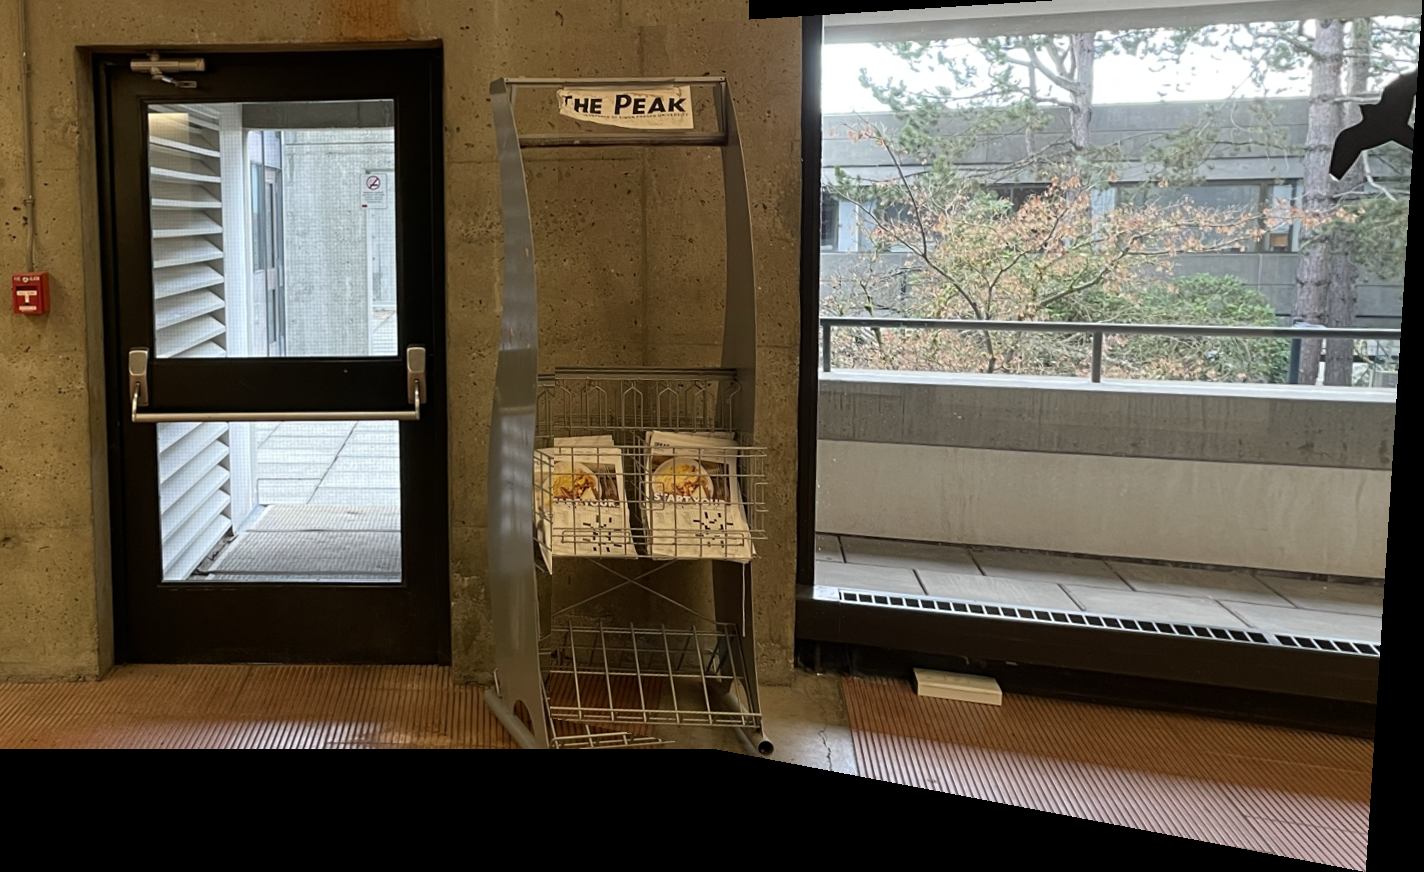
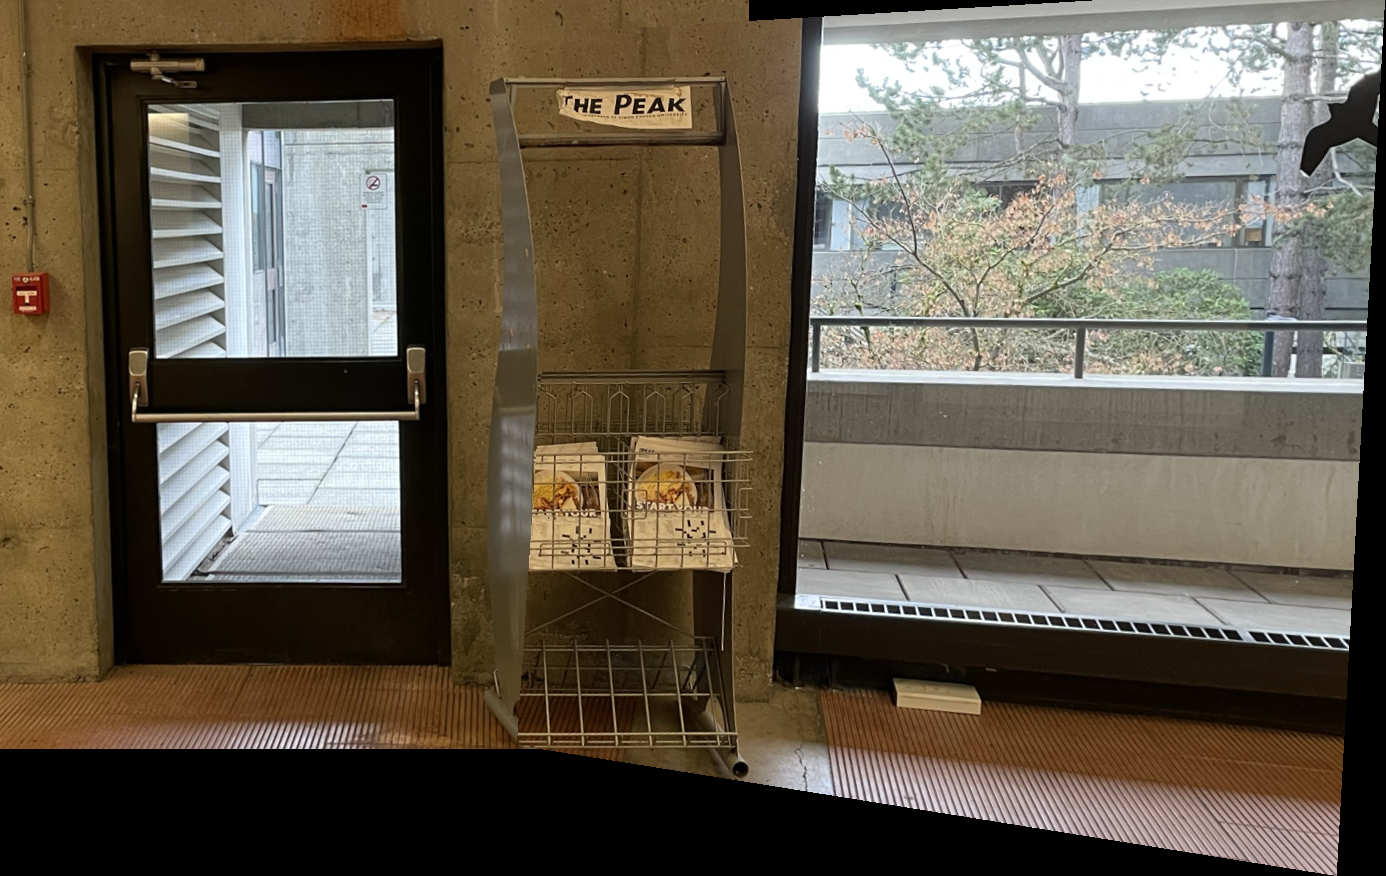
Panorama

Changed region(s): [[0.0, 0.0, 1.0, 1.0], [0.0, 0.3096, 0.031, 0.3716]]

diff --git a/361_Assignment/Assignment 2/Panorama4Picture.m b/361_Assignment/Assignment 2/Panorama4Picture.m
@@ -1,0 +1,149 @@
+image1 = imread("7.png");
+image1 =im2double(image1);
+targetSize = [1500 1500];
+r = centerCropWindow2d(size(image1),targetSize);
+image1 = imcrop(image1,r);
+image1 =imresize(image1,[750,750]);
+rgb1 = image1;
+
+image1 = rgb2gray(image1);
+Fast1 = my_fast_detector(image1,0.04);
+Faster1 = Harris(image1,Fast1);
+
+
+image2 = imread("8.png");
+image2 =im2double(image2);
+targetSize = [1500 1500];
+r = centerCropWindow2d(size(image2),targetSize);
+image2 = imcrop(image2,r);
+image2 =imresize(image2,[750,750]);
+rgb2 = image2;
+
+image2 = rgb2gray(image2);
+Fast2 = my_fast_detector(image2,0.04);
+Faster2 = Harris(image2,Fast2);
+%imshow([Fast1 Faster1; Fast2 Faster2]);
+
+
+image3 = imread("9.png");
+image3 =im2double(image3);
+targetSize = [1500 1500];
+r = centerCropWindow2d(size(image3),targetSize);
+image3 = imcrop(image3,r);
+image3 =imresize(image3,[750,750]);
+rgb3 = image3;
+
+image3 = rgb2gray(image3);
+Fast3 = my_fast_detector(image3,0.04);
+Faster3 = Harris(image3,Fast3);
+
+image4 = imread("10.png");
+image4 =im2double(image4);
+targetSize = [1500 1500];
+r = centerCropWindow2d(size(image4),targetSize);
+image4 = imcrop(image4,r);
+image4 =imresize(image4,[750,750]);
+rgb4 = image4;
+
+image4 = rgb2gray(image4);
+Fast4 = my_fast_detector(image4,0.04);
+Faster4 = Harris(image4,Fast4);
+imshow([rgb1 rgb2;rgb3 rgb4]);
+
+[features1Fast,validPoints1Fast] = matching(image1,Fast1);
+[features2Fast,validPoints2Fast] = matching(image2,Fast2);
+[features3Fast,validPoints3Fast] = matching(image3,Fast3);
+[features4Fast,validPoints4Fast] = matching(image4,Fast4);
+indexPairsFast = matchFeatures(features1Fast, features2Fast);
+matchedPoints1Fast = validPoints1Fast(indexPairsFast(:, 1), :);
+matchedPoints2Fast = validPoints2Fast(indexPairsFast(:, 2), :);
+indexPairsFast = matchFeatures(features2Fast, features3Fast);
+matchedPoints3Fast = validPoints2Fast(indexPairsFast(:, 1), :);
+matchedPoints4Fast = validPoints3Fast(indexPairsFast(:, 2), :);
+indexPairsFast = matchFeatures(features3Fast, features4Fast);
+matchedPoints5Fast = validPoints3Fast(indexPairsFast(:, 1), :);
+matchedPoints6Fast = validPoints4Fast(indexPairsFast(:, 2), :);
+%figure;
+%showMatchedFeatures(rgb1, rgb2, matchedPoints1Fast, matchedPoints2Fast,'montage');
+%figure;
+%showMatchedFeatures(rgb2, rgb3, matchedPoints3Fast, matchedPoints4Fast,'montage');
+%figure;
+%showMatchedFeatures(rgb3, rgb4, matchedPoints5Fast, matchedPoints6Fast,'montage');
+
+
+[features1Faster,validPoints1Faster] = matching(image1,Faster1);
+[features2Faster,validPoints2Faster] = matching(image2,Faster2);
+[features3Faster,validPoints3Faster] = matching(image3,Faster3);
+[features4Faster,validPoints4Faster] = matching(image4,Faster4);
+indexPairsFaster = matchFeatures(features1Faster, features2Faster);
+matchedPoints1Faster = validPoints1Faster(indexPairsFaster(:, 1), :);
+matchedPoints2Faster = validPoints2Faster(indexPairsFaster(:, 2), :);
+indexPairsFaster = matchFeatures(features2Faster, features3Faster);
+matchedPoints3Faster = validPoints2Faster(indexPairsFaster(:, 1), :);
+matchedPoints4Faster = validPoints3Faster(indexPairsFaster(:, 2), :);
+indexPairsFaster = matchFeatures(features3Faster, features4Faster);
+matchedPoints5Faster = validPoints3Faster(indexPairsFaster(:, 1), :);
+matchedPoints6Faster = validPoints4Faster(indexPairsFaster(:, 2), :);
+figure;
+showMatchedFeatures(rgb1, rgb2, matchedPoints1Faster, matchedPoints2Faster,'montage');
+figure;
+showMatchedFeatures(rgb2, rgb3, matchedPoints3Faster, matchedPoints4Faster,'montage');
+figure;
+showMatchedFeatures(rgb3, rgb4, matchedPoints5Faster, matchedPoints6Faster,'montage');
+
+
+
+imageSize = [750 750;750 750;750 750;750 750];
+tformsFaster(1) = projtform2d;
+tformsFaster(2) = estgeotform2d(matchedPoints2Faster, matchedPoints1Faster,'projective', 'confidence', 99, 'MaxNumTrials', 2000);
+tformsFaster(2).A = tformsFaster(1).A * tformsFaster(2).A;
+tformsFaster(3) = estgeotform2d(matchedPoints4Faster, matchedPoints3Faster,'projective', 'confidence', 99, 'MaxNumTrials', 2000);
+tformsFaster(3).A = tformsFaster(2).A * tformsFaster(3).A;
+tformsFaster(4) = estgeotform2d(matchedPoints6Faster, matchedPoints5Faster,'projective', 'confidence', 99, 'MaxNumTrials', 2000);
+tformsFaster(4).A = tformsFaster(3).A * tformsFaster(4).A;
+
+
+Tinv = invert(tformsFaster(2));
+tformsFaster(1).A = Tinv.A * tformsFaster(1).A;
+tformsFaster(2) = projtform2d;
+tformsFaster(3).A = Tinv.A * tformsFaster(3).A;
+tformsFaster(4).A = Tinv.A * tformsFaster(4).A;
+
+[xlim(1,:), ylim(1,:)] = outputLimits(tformsFaster(1), [1 imageSize(1,2)], [1 imageSize(1,1)]);
+[xlim(2,:), ylim(2,:)] = outputLimits(tformsFaster(2), [1 imageSize(2,2)], [1 imageSize(2,1)]);
+[xlim(3,:), ylim(3,:)] = outputLimits(tformsFaster(3), [1 imageSize(3,2)], [1 imageSize(3,1)]);
+[xlim(4,:), ylim(4,:)] = outputLimits(tformsFaster(4), [1 imageSize(4,2)], [1 imageSize(4,1)]);
+maxImageSize = max(imageSize);
+xMin = min([1; xlim(1)]);
+xMax = max([maxImageSize(2); xlim(:)]);
+yMin = min([1; ylim(1)]);
+yMax = max([maxImageSize(1); ylim(:)]);
+width  = round(xMax - xMin);
+height = round(yMax - yMin);
+panorama = zeros([height,width,3]);
+%panorama = zeros(2000,2000);
+xLimits = [xMin xMax];
+yLimits = [yMin yMax];
+panoramaView = imref2d([height width], xLimits, yLimits);
+
+
+blender = vision.AlphaBlender('Operation', 'Binary mask', 'MaskSource', 'Input port');  
+
+warpedImage1 = imwarp(rgb1, tformsFaster(1), 'OutputView', panoramaView);
+mask1 = imwarp(true(size(rgb1,1),size(rgb1,2)), tformsFaster(1), 'OutputView', panoramaView);
+panorama = step(blender, panorama, warpedImage1, mask1);
+
+warpedImage2 = imwarp(rgb2, tformsFaster(2), 'OutputView', panoramaView);
+mask2 = imwarp(true(size(rgb2,1),size(rgb2,2)), tformsFaster(2), 'OutputView', panoramaView);
+panorama = step(blender, panorama, warpedImage2, mask2);
+
+warpedImage3 = imwarp(rgb3, tformsFaster(3), 'OutputView', panoramaView);
+mask3 = imwarp(true(size(rgb3,1),size(rgb3,2)), tformsFaster(3), 'OutputView', panoramaView);
+panorama = step(blender, panorama, warpedImage3, mask3);
+
+warpedImage4 = imwarp(rgb4, tformsFaster(4), 'OutputView', panoramaView);
+mask4 = imwarp(true(size(rgb4,1),size(rgb4,2)), tformsFaster(4), 'OutputView', panoramaView);
+panorama = step(blender, panorama, warpedImage4, mask4);
+
+figure
+imshow(panorama);

diff --git a/361_Assignment/Assignment 2/Panorama2Picture.m b/361_Assignment/Assignment 2/Panorama2Picture.m
@@ -1,0 +1,86 @@
+clear;
+image1 = imread("3.png");
+image1 =im2double(image1);
+targetSize = [1500 1500];
+r = centerCropWindow2d(size(image1),targetSize);
+image1 = imcrop(image1,r);
+image1 =imresize(image1,[750,750]);
+rgb1 = image1;
+imwrite(image1,"./ResultPicture/S2-im1.png");
+image1 = rgb2gray(image1);
+Fast1 = my_fast_detector(image1,0.05);
+Faster1 = Harris(image1,Fast1);
+
+
+image2 = imread("4.png");
+image2 =im2double(image2);
+targetSize = [1500 1500];
+r = centerCropWindow2d(size(image2),targetSize);
+image2 = imcrop(image2,r);
+image2 =imresize(image2,[750,750]);
+rgb2 = image2;
+imwrite(image2,"./ResultPicture/S2-im2.png");
+image2 = rgb2gray(image2);
+Fast2 = my_fast_detector(image2,0.05);
+Faster2 = Harris(image2,Fast2);
+%imshow([Fast1 Faster1; Fast2 Faster2]);
+imwrite(Fast1,"./ResultPicture/S2-fast.png");
+imwrite(Faster1,"./ResultPicture/S2-fastR.png");
+
+
+[features1Fast,validPoints1Fast] = matching(image1,Fast1);
+[features2Fast,validPoints2Fast] = matching(image2,Fast2);
+indexPairsFast = matchFeatures(features1Fast, features2Fast);
+matchedPoints1Fast = validPoints1Fast(indexPairsFast(:, 1), :);
+matchedPoints2Fast = validPoints2Fast(indexPairsFast(:, 2), :);
+figure;
+showMatchedFeatures(rgb1, rgb2, matchedPoints1Fast, matchedPoints2Fast,'montage');
+saveas(gcf, './ResultPicture/S2-fastMatch.png');
+
+[features1Faster,validPoints1Faster] = matching(image1,Faster1);
+[features2Faster,validPoints2Faster] = matching(image2,Faster2);
+indexPairsFaster = matchFeatures(features1Faster, features2Faster);
+matchedPoints1Faster = validPoints1Faster(indexPairsFaster(:, 1), :);
+matchedPoints2Faster = validPoints2Faster(indexPairsFaster(:, 2), :);
+figure;
+showMatchedFeatures(rgb1, rgb2, matchedPoints1Faster, matchedPoints2Faster,'montage');
+saveas(gcf,'./ResultPicture/S2-fastRMatch.png');
+
+
+
+imageSize = [750 750;750 750];
+tforms2Faster = estgeotform2d(matchedPoints1Faster, matchedPoints2Faster,'projective', 'confidence', 99, 'MaxNumTrials', 2000);
+tforms2Faster = invert(tforms2Faster);
+tforms1Faster = projtform2d;
+
+
+[xlim(1,:), ylim(1,:)] = outputLimits(tforms1Faster, [1 imageSize(2,2)], [1 imageSize(2,1)]);
+[xlim(2,:), ylim(2,:)] = outputLimits(tforms2Faster, [1 imageSize(2,2)], [1 imageSize(2,1)]);
+maxImageSize = max(imageSize);
+xMin = min([1; xlim(1)]);
+xMax = max([maxImageSize(2); xlim(:)]);
+yMin = min([1; ylim(1)]);
+yMax = max([maxImageSize(1); ylim(:)]);
+width  = round(xMax - xMin);
+height = round(yMax - yMin);
+panorama = zeros([height,width,3]);
+%panorama = zeros(2000,2000);
+xLimits = [xMin xMax];
+yLimits = [yMin yMax];
+panoramaView = imref2d([height width], xLimits, yLimits);
+
+
+blender = vision.AlphaBlender('Operation', 'Binary mask', 'MaskSource', 'Input port');  
+
+warpedImage1 = imwarp(rgb1, tforms1Faster, 'OutputView', panoramaView);
+mask1 = imwarp(true(size(rgb1,1),size(rgb1,2)), tforms1Faster, 'OutputView', panoramaView);
+panorama = step(blender, panorama, warpedImage1, mask1);
+
+warpedImage2 = imwarp(rgb2, tforms2Faster, 'OutputView', panoramaView);
+mask2 = imwarp(true(size(rgb2,1),size(rgb2,2)), tforms2Faster, 'OutputView', panoramaView);
+
+panorama = step(blender, panorama, warpedImage2, mask2);
+
+figure
+imshow(panorama);
+imwrite(panorama,"./ResultPicture/S2-panorama.png");
